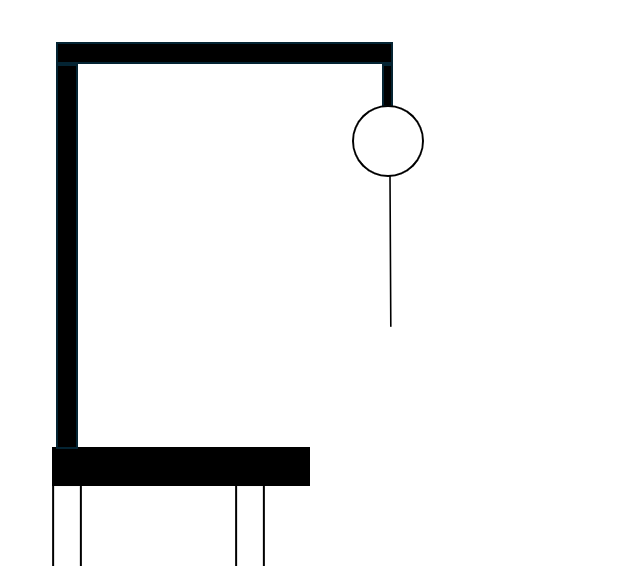
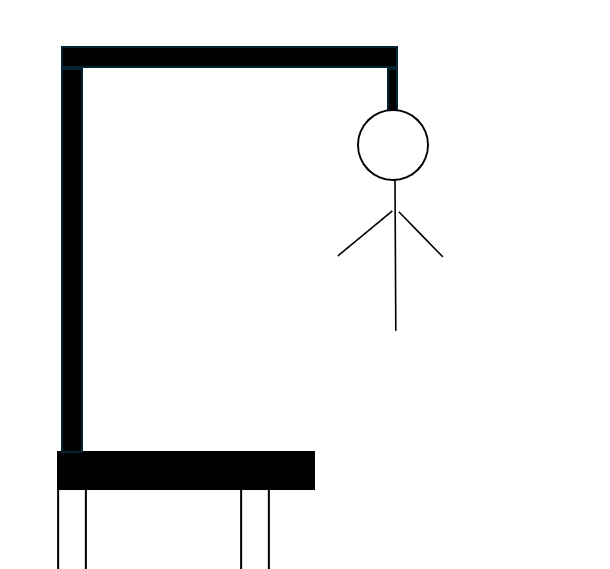
added few functions in the js and updated the reset function, plus added few guess words as a test to make sure it works, still trying to get it to work!

Changed region(s): [[0.0623, 0.0601, 0.7164, 1.0], [0.6852, 0.4205, 0.7164, 0.4505]]

diff --git a/script.js b/script.js
@@ -1,9 +1,97 @@
 //consts
-const letters = document.querySelectorAll('.letters')
+const letters = document.querySelectorAll('.letter')
 const wordUnderscores = document.querySelector('#word-underscores')
-const livesElement = document.querySelector('.lives')
+const triesElement = document.querySelector('.tries')
 const image = document.querySelector('#hangman-img')
 const gameOverContainer = document.querySelector('#game-over')
 const gameWinContainer = document.querySelector('#game-win')
-const resetGameBtn = document.querySelector('.reset')
+const resetGame = document.querySelector('.reset')
 const hintText = document.querySelector('#hints')
+// for the word guesses and hints
+const word = ['windows', 'seeds']
+const hints = ['a house without it would be cold', 'birds favorite food']
+// variables
+let displayWord = []
+let selectedHint
+let selectedWord = ''
+let pickedLetter
+let wrongLetter = []
+let tries = 6
+let wordIndex = 0
+
+// game functions
+const init = () => {
+  pickRandomWord()
+  playGame()
+}
+
+const playGame = () => {
+  displayWord = []
+  wordUnderscores.innerHTML = ''
+  for (let i = 0; i < selectedWord.length; i++) {
+    displayWord.push('_')
+    const pElement = document.createElement('p')
+    pElement.textContent = '_'
+    wordUnderscores.appendChild(pElement)
+  }
+  tries.textContent = `tries: ${tries}`
+}
+
+const pickRandomWord = () => {
+  wordIndex = Math.floor(Math.random() * word.length)
+  selectedWord = word[wordIndex]
+}
+
+const showHint = () => {
+  const hintIndex = word.findIndex(function (oneWord) {
+    return oneWord === selectedWord
+  })
+  selectedHint = hints
+  hintText.textContent = selectedHint
+}
+
+letters.forEach((oneLetter) => {
+  oneLetter.addEventListener('click', (event) => {
+    pickedLetter = event.target.id.toLowerCase()
+    if (selectedWord.includes(pickedLetter)) {
+      showWord(pickedLetter)
+    } else {
+      tries()
+    }
+  })
+})
+
+const showUnderScores = () => {
+  for (let i = 0; i < word.length; i++) pElement = document.createElement('p')
+  pElement.textContent = '_'
+  wordUnderscores.appendChild(pElement)
+}
+
+const showWord = (pickedLetter) => {
+  wordUnderscores = ''
+  selectedWord.split('').forEach((letter, ix) => {
+    if (letter === pickedLetter) {
+      displayWord[ix] = letter
+    }
+  })
+  displayWord.forEach((element) => {
+    let pElement = document.createElement('p')
+    pElement.textContent = element
+    wordUnderscores.appendChild(pElement)
+  })
+}
+
+const resetGameBtn = () => {
+  tries = 6
+  image.src = 'images/starting.png'
+  selectedHint = ''
+  displayWord = []
+  selectedWord = ''
+  wrongLetter = []
+  wordUnderscores.textContent = ''
+  gameWinContainer = ''
+  gameOverContainer = ''
+}
+// event listeners
+resetGame.addEventListener('click', resetGame)
+init()

diff --git a/gameplay.html b/gameplay.html
@@ -21,7 +21,7 @@
         <div class="letters">
           <button class="letter" id="A">A</button>
           <button class="letter" id="B">B</button>
-          <button class="letter" id="D">C</button>
+          <button class="letter" id="C">C</button>
           <button class="letter" id="D">D</button>
           <button class="letter" id="E">E</button>
           <button class="letter" id="F">F</button>
@@ -47,6 +47,6 @@
           <button class="letter" id="Z">Z</button>
           </div>
           </section>
-          <button class="reset"></button>RestartGame</button>
+          <button class="reset">RestartGame</button>
         </body>
 </html>

diff --git a/index.html b/index.html
@@ -4,14 +4,14 @@
     <meta charset="UTF-8" />
     <meta name="viewport" content="width=device-width, initial-scale=1.0" />
     <title>HangManClassic</title>
-    <link rel="stylesheet" href="style.css">
+    <link rel="stylesheet" href="style.css" />
   </head>
   <body>
     <div class="background">
       <h1>HangManClassic</h1>
       <h2>Classical</h2>
       <div class="Start-screen">
-        <button id="start"><a href="gameplay.html"></a></button>
+        <a href="gameplay.html"><button id="start">startGame</button></a>
       </div>
     </div>
   </body>

diff --git a/gameplay.css b/gameplay.css
@@ -1,0 +1,34 @@
+body {
+  text-align: center;
+  font-family: sans-serif;
+  padding: 0;
+  font-size: 20px;
+  background-color: bisque;
+}
+
+.letters,
+button {
+  margin: 0 auto 10pc auto;
+  padding: 10px;
+  font-size: larger;
+  border-radius: 10px;
+  display: inline-block;
+}
+
+#reset {
+  margin-bottom: 30px;
+}
+
+.hidden {
+  visibility: hidden;
+}
+
+#word-underscores {
+  display: flex;
+  justify-content: center;
+  gap: 10px;
+}
+
+image {
+  align-self: center;
+}

diff --git a/style.css b/style.css
@@ -15,6 +15,7 @@ button {
 
 body {
   text-align: center;
+  background-color: black;
 }
 
 .background {

diff --git a/README.md b/README.md
@@ -33,7 +33,7 @@
 ![HomePage](/Images/starting.png)
 
 ##### image header 2
-![Game](/Images/mistake-6.png)
+![Game](/Images/mistake-0.png)
 ***
 
 
